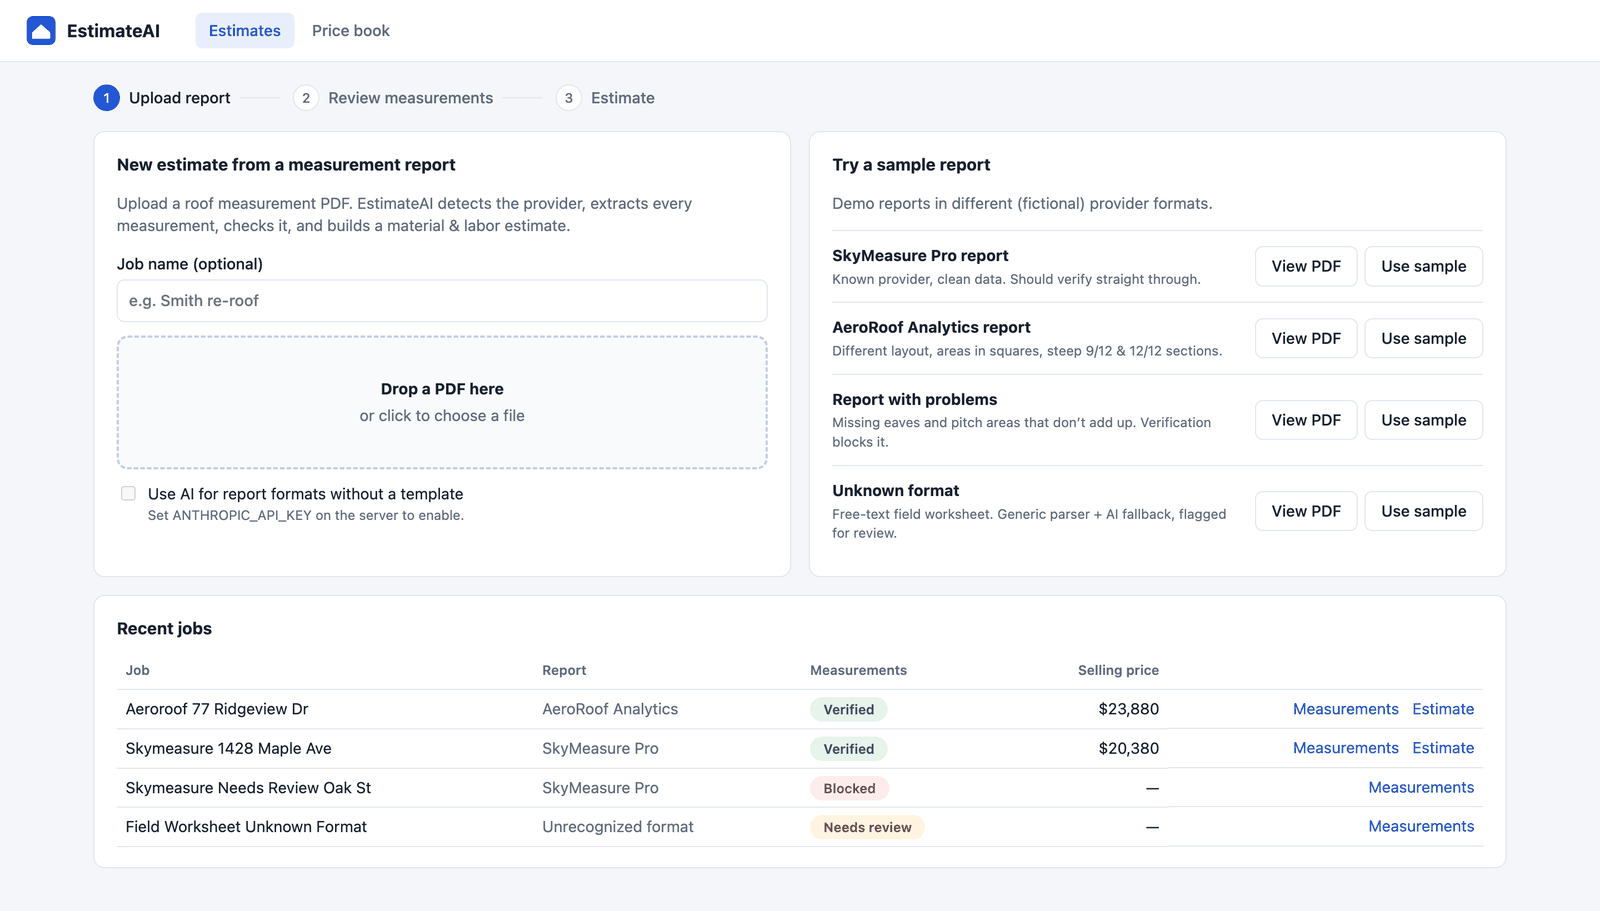
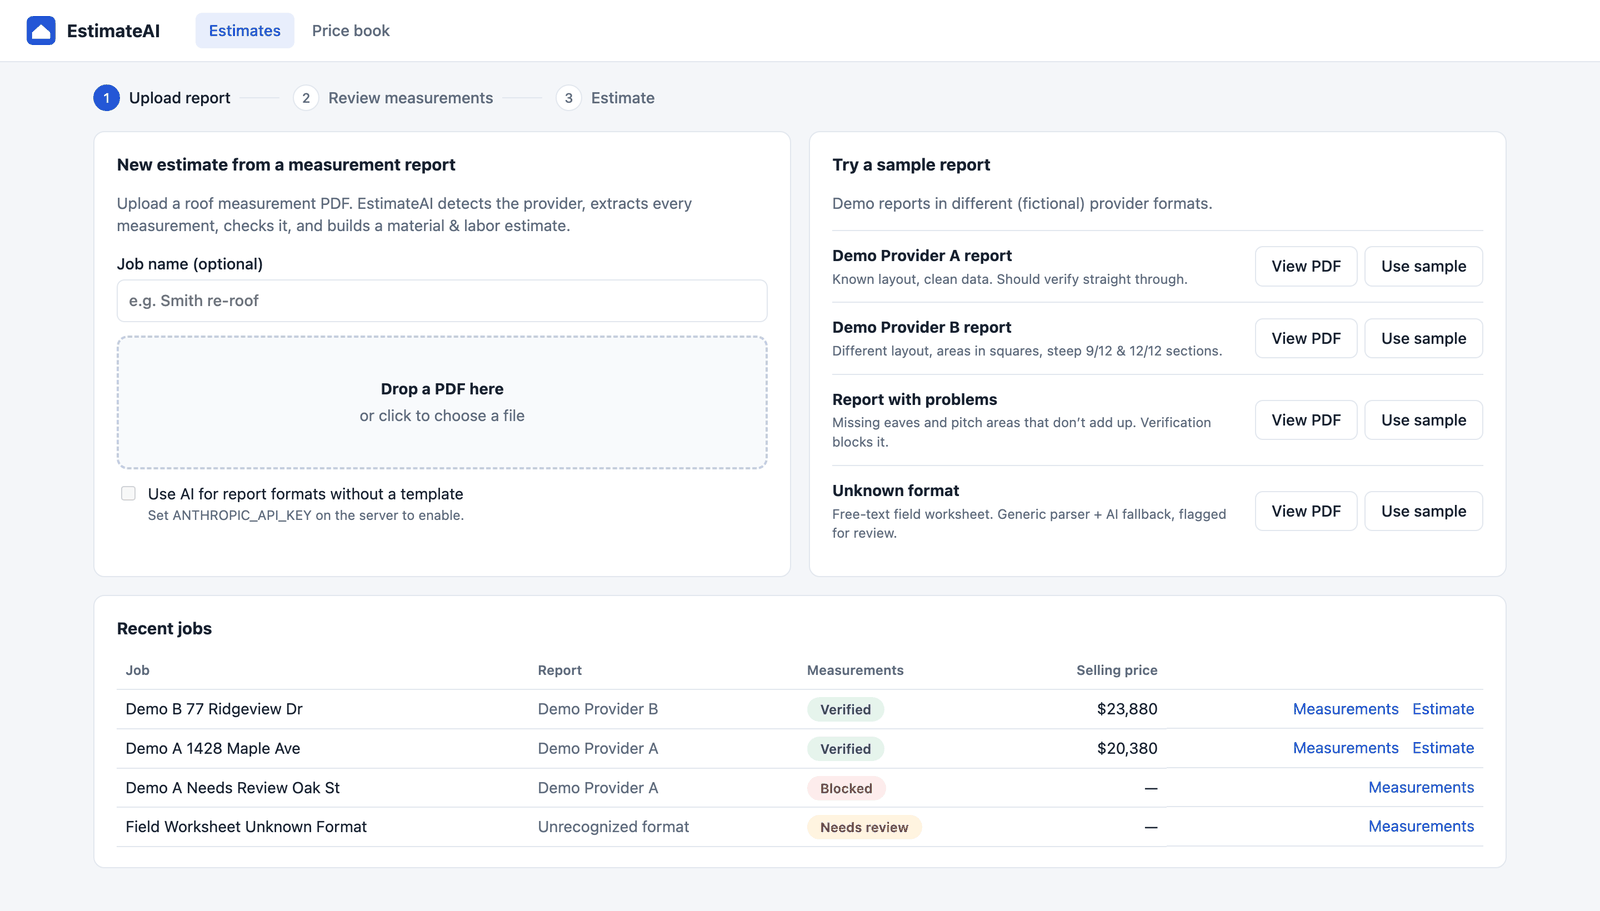
docs: explain sample reports and retake screenshots
Add an "About the sample reports" section: the demo providers are
fictional, real reports go through the generic parser and AI and are
flagged for review, and how to add a real provider. Retake screenshots
showing the new names; note the rename in plans 01 and 04.

diff --git a/README.md b/README.md
@@ -65,12 +65,32 @@ SQLite by default (`backend/data/estimateai.db`, created on first run). For Post
 
 ## Demo script (5 minutes)
 
-1. **SkyMeasure Pro sample** → *Use sample*. All checks pass; every value shows its source line from the PDF. *Generate estimate*.
+1. **Demo Provider A sample** → *Use sample*. All checks pass; every value shows its source line from the PDF. *Generate estimate*.
 2. On the estimate, click **Architectural laminated shingles** to see the math: `2,846 sq ft × 1.12 waste ÷ 33.333 = 95.63 → 96 bundles`. Change waste to 15% (quantities re-run), override a quantity (marked *Edited*, survives re-runs), change margin, and watch the price update.
-3. **AeroRoof sample**: a different layout with areas in *squares* and `9:12` pitch notation, normalized automatically. Steep charges are priced per pitch band from the slope table, not just the predominant pitch.
+3. **Demo Provider B sample**: a different layout with areas in *squares* and `9:12` pitch notation, normalized automatically. Steep charges are priced per pitch band from the slope table, not just the predominant pitch.
 4. **Report with problems**: estimating is blocked. Eaves are missing, and the pitch areas sum to 2,050 vs. 2,200 sq ft. Enter eaves, fix the pitch table, save → checks pass.
 5. **Unknown format**: a free-text worksheet. The generic parser finds most values at lower confidence. With an API key, AI fills the rest. Every one must be confirmed before the warnings clear.
 6. **Price book**: change a price; new estimates use it.
+
+## About the sample reports
+
+Roof measurement reports come from several aerial/satellite measurement companies, and each one lays out its PDF differently. The four bundled samples are **made up**: no real company's names, logos, layouts or customer data.
+
+| Sample | What it shows |
+|---|---|
+| **Demo Provider A** (`demo_a_1428_maple_ave.pdf`) | A known layout with clean data: areas in sq ft, pitch as `6/12`, lengths with counts. Verifies straight through. |
+| **Demo Provider B** (`demo_b_77_ridgeview_dr.pdf`) | A second known layout with different labels and units: areas in *squares*, pitch as `9:12`, a slope table across three pitches. |
+| **Report with problems** (`demo_a_needs_review_oak_st.pdf`) | Provider A's layout with the eaves missing and pitch areas that don't add up. Verification blocks the estimate. |
+| **Unknown format** (`field_worksheet_unknown_format.pdf`) | A free-text worksheet in no known layout. The generic parser and (optionally) AI read it, and every value is flagged for review. |
+
+**How a report is read** (`backend/app/extraction/`):
+
+1. **Detect the layout.** Each provider parser lists *fingerprints*, phrases that appear on every report of that layout and on no other. The first parser whose fingerprints are all in the PDF text wins.
+2. **Template parse.** The matching parser reads each field with a pattern written for that layout, converts units in code (squares → sq ft, `9:12` → 9), and records the PDF line each value came from (confidence 0.98).
+3. **No match:** the generic parser looks for common label wording in any text (confidence 0.70, needs confirmation). If fields are still missing, an API key is set and AI is enabled on upload, Claude reads only those, quoting where each came from. Numbers not found in the PDF text are flagged.
+4. **Verification** then checks the result, whichever path produced it.
+
+**Real providers.** A real provider's report works today through step 3, flagged for review. For reliable, fully automatic extraction, add a template parser from a real sample report: one small class in `providers/` plus a test in `tests/test_parsers.py`. The `provider-parser-builder` Claude Code agent does this from a sample PDF. Real report samples aren't committed to this repo, since they would contain customer data.
 
 ## Project layout
 

diff --git a/docs/plans/01-prototype.md b/docs/plans/01-prototype.md
@@ -13,13 +13,13 @@ Out of scope: CRM integration, production handoff, multi-company accounts, custo
 - **AI reads, code calculates.** Template parsers handle known layouts. A generic label parser handles unknown ones, and Claude (`claude-opus-5-5`, structured outputs, server-side refusal fallback) only fills fields still missing in unknown layouts. Unit conversion, checks, quantities and pricing are all deterministic `Decimal` code.
 - **Provenance per value:** source, confidence, PDF evidence, original value and a confirmed flag. Edits become `manual`.
 - **Formulas are data:** `pricebook.json` expressions run through a safe AST evaluator (`formula.py`). `eval` is never used.
-- **Fictional sample providers** (SkyMeasure Pro, AeroRoof Analytics), so the demo copies nobody's format or branding.
+- **Fictional sample providers** (SkyMeasure Pro, AeroRoof Analytics; renamed to Demo Provider A/B in plan 06), so the demo copies nobody's format or branding.
 - **Port 8010.** Port 8000 belongs to another local project.
 
 ## Backend (`backend/`)
 - `app/models.py`: Job, Report, Measurement, Material, LaborRate, Assembly, Estimate, LineItem.
 - `app/fields.py`: canonical measurement fields (area, pitch, facets, ridge/hip/valley/rake/eave, flashing, perimeter, squares, waste).
-- `app/extraction/`: `text.py` (pdfplumber), `providers/` (SkyMeasure, AeroRoof and generic parsers, plus a registry), `ai.py` (Claude fallback that checks every number against the PDF text), `pipeline.py`.
+- `app/extraction/`: `text.py` (pdfplumber), `providers/` (two demo-layout parsers and a generic parser, plus a registry), `ai.py` (Claude fallback that checks every number against the PDF text), `pipeline.py`.
 - `app/verification.py`: errors (missing required field, pitch areas more than 5% off, pitch out of range, zero eaves) block estimating. Warnings: squares and perimeter mismatches, low slope, implausible geometry, unconfirmed generic or AI values.
 - `app/calculator.py`: `ceil(basis × (1+waste) / coverage)`, default waste from the report or roof complexity, steep-charge bands taken from the area-by-pitch table.
 - `app/services.py`: create report, update measurements, generate estimate from an assembly, recalc that keeps overrides, totals. `price = cost / (1 − margin)`, rounded up to the next $10.

diff --git a/docs/plans/04-readme-screenshots.md b/docs/plans/04-readme-screenshots.md
@@ -12,10 +12,10 @@ Make the public repo read well as a portfolio piece.
 - Topics: fastapi, react, typescript, python, claude-api, ai, pdf-extraction, construction-tech, roofing, estimating, sqlalchemy, vite.
 
 ## README screenshots
-- `docs/screenshots/estimate.png`: hero; estimate with summary and recommended price (AeroRoof sample).
+- `docs/screenshots/estimate.png`: hero; estimate with summary and recommended price (Demo Provider B sample).
 - `docs/screenshots/home.png`: upload, samples, recent jobs.
 - `docs/screenshots/review-blocked.png`: missing eaves and pitch areas that don't add up block the estimate.
 - `docs/screenshots/review-unknown-format.png`: generic-parser values flagged for review, with source text.
 - `docs/screenshots/pricebook.png`: formulas, coverage, waste, prices.
 
-To retake: delete `backend/data/estimateai.db`, start on 8010, load the samples (worksheet, oak, maple, aeroroof, in that order), create estimates for reports 3 and 4, and capture `#/`, `#/report/2`, `#/report/1`, `#/estimate/2`, `#/pricebook`.
+To retake: delete `backend/data/estimateai.db`, start on 8010, load the samples (worksheet, oak, maple, demo B, in that order), create estimates for reports 3 and 4, and capture `#/`, `#/report/2`, `#/report/1`, `#/estimate/2`, `#/pricebook`.
